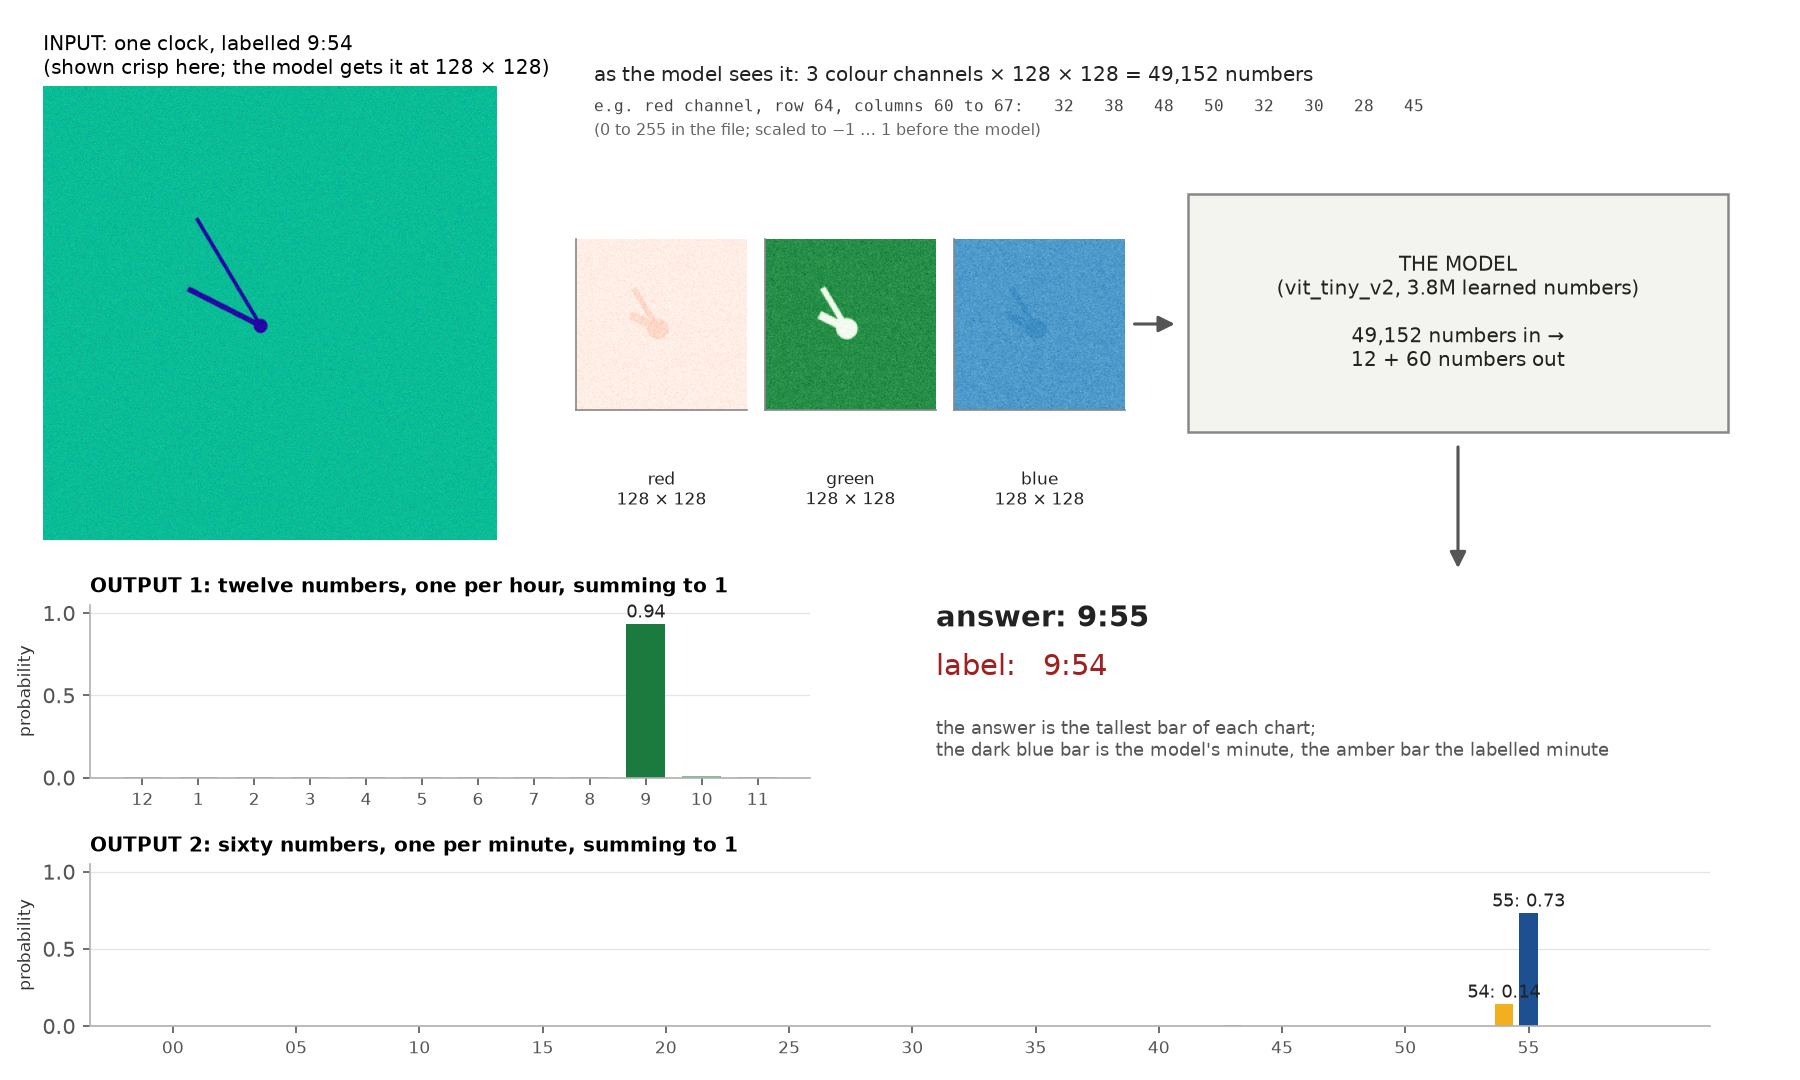
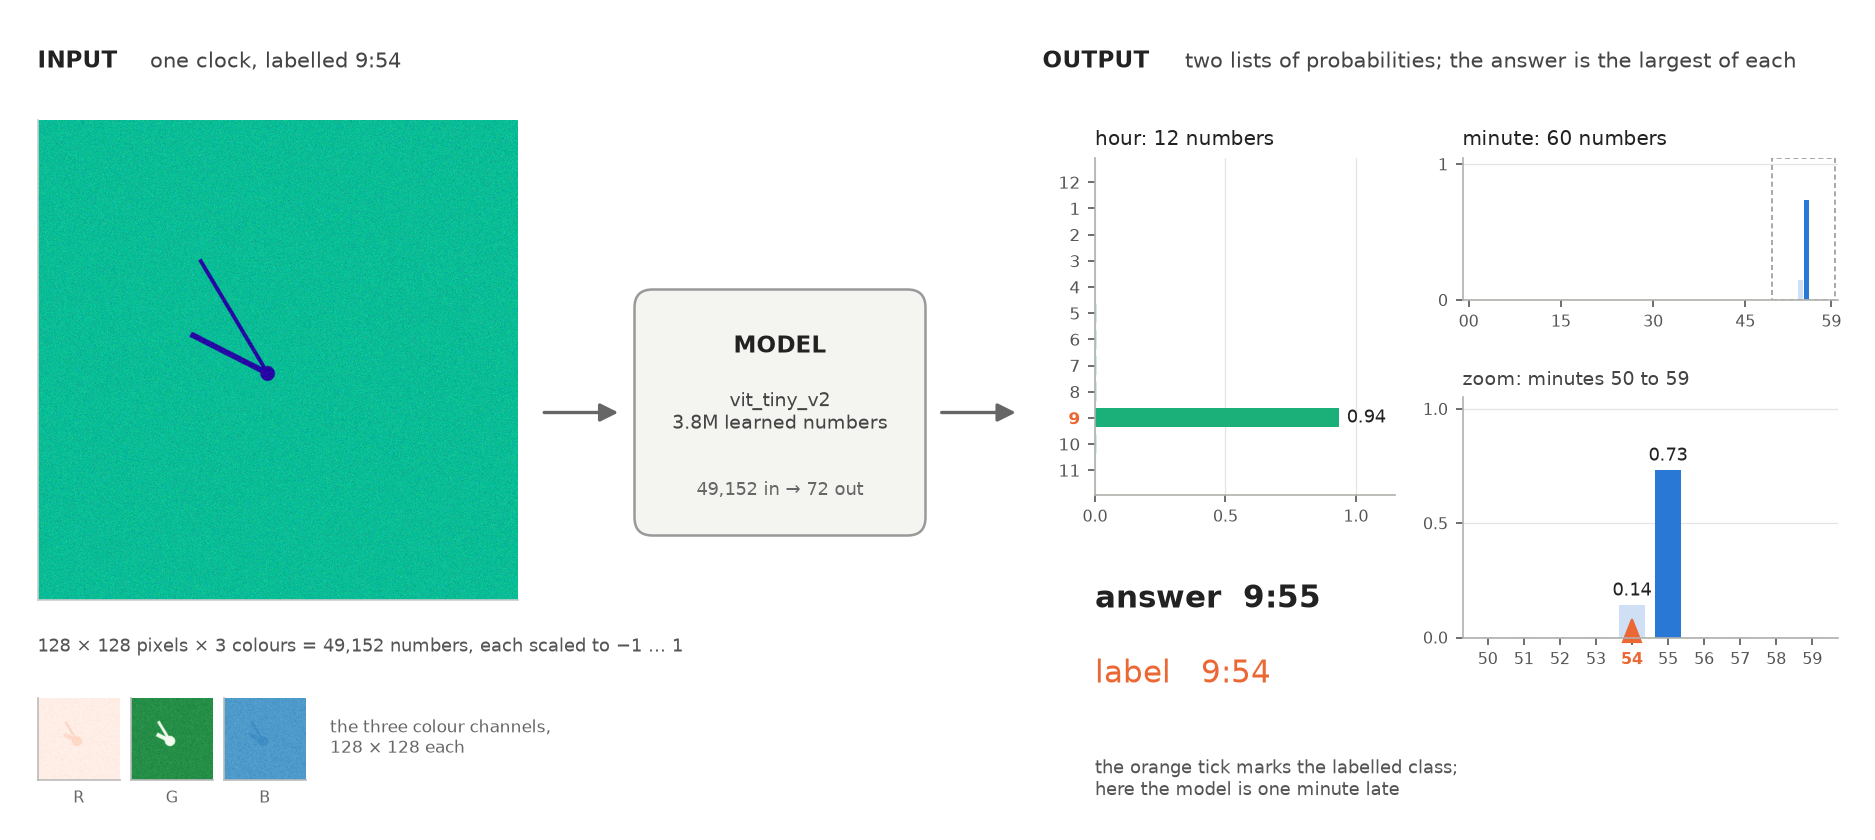
Figure 2.2 redesigned

diff --git a/_posts/2026-09-15-clocks-part-2-models.md b/_posts/2026-09-15-clocks-part-2-models.md
@@ -65,16 +65,17 @@ Here is what that means as literal numbers, for one held-out clock. The
 image is stored as three grids of 128 by 128 values, one for red, one for
 green, one for blue, and a row of the actual values is printed under them.
 Those 49,152 numbers are what the model receives. What it returns is
-charted below the model: twelve numbers as twelve bars, sixty numbers as
-sixty bars. Its answer is the tallest bar of each chart (Figure 2.2).
+charted on the right: twelve numbers as twelve bars, sixty numbers as
+sixty bars, with the busy end of the minute list zoomed in. Its answer is
+the longest bar of each chart (Figure 2.2).
 
 ![The input as a clock and its three colour channels, the model, and the output as the twelve and sixty numbers it returns](/assets/clocks/io_numbers.png){: .no-invert}
 
-**Figure 2.2.** The input as a clock and its three colour channels, the model, and its two outputs as bar charts: twelve hour probabilities and sixty minute probabilities. Dark blue is the model's minute, amber the labelled one.
+**Figure 2.2.** One clock through the model. Left: the input and its three colour channels. Right: the two output lists as bars, twelve for the hour and sixty for the minute, with a zoom on the ten minutes where the probability sits. The orange tick marks the labelled class.
 {: .figcap}
 
 The model put 0.94 on hour 9, and on the minute chart 0.73 on 55 and 0.14
-on 54. Its answer is 9:55. The label, the amber bar, is 9:54. So this
+on 54. Its answer is 9:55. The label, marked by the orange tick, is 9:54. So this
 clock counts as a miss, by one minute. Hold on to this example; the next
 figure draws the same two lists on a dial, and the section after works out
 what the loss charges for it.
